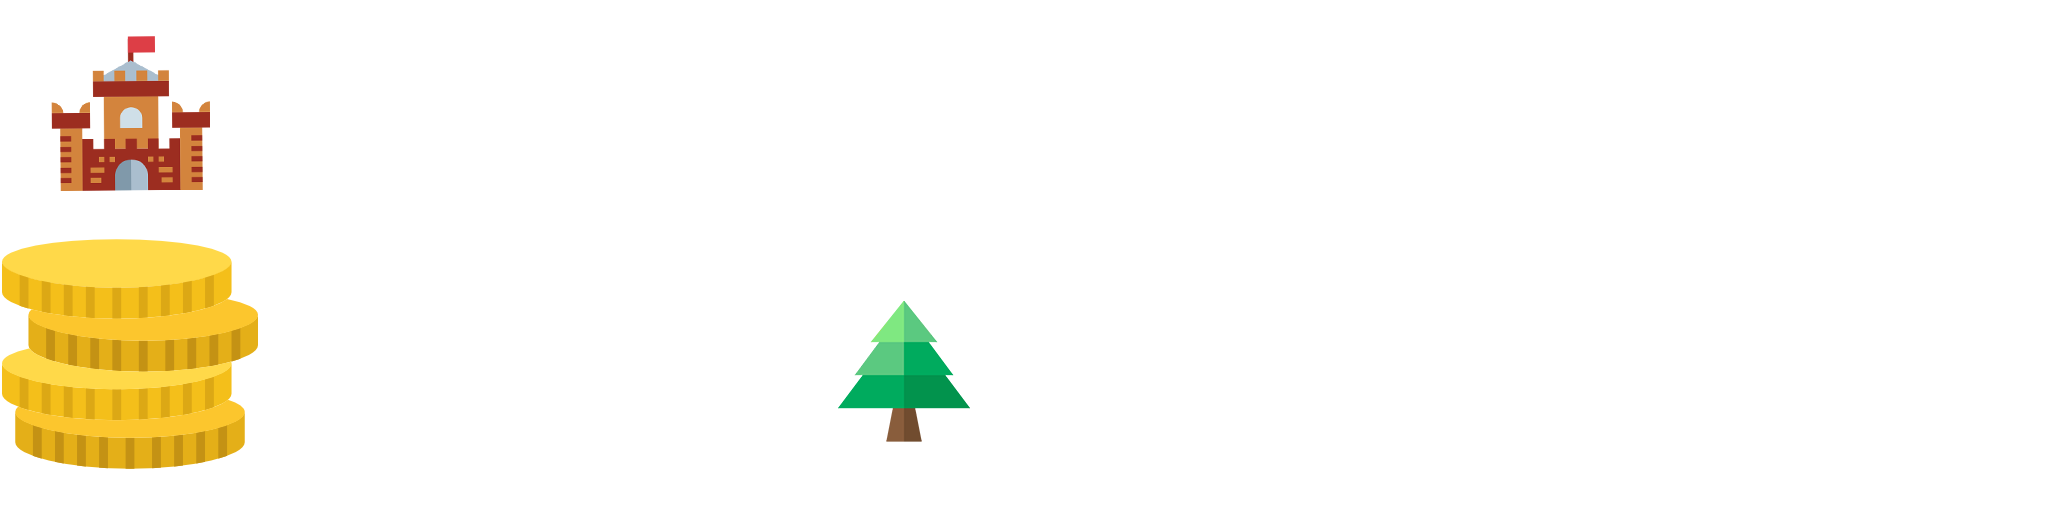
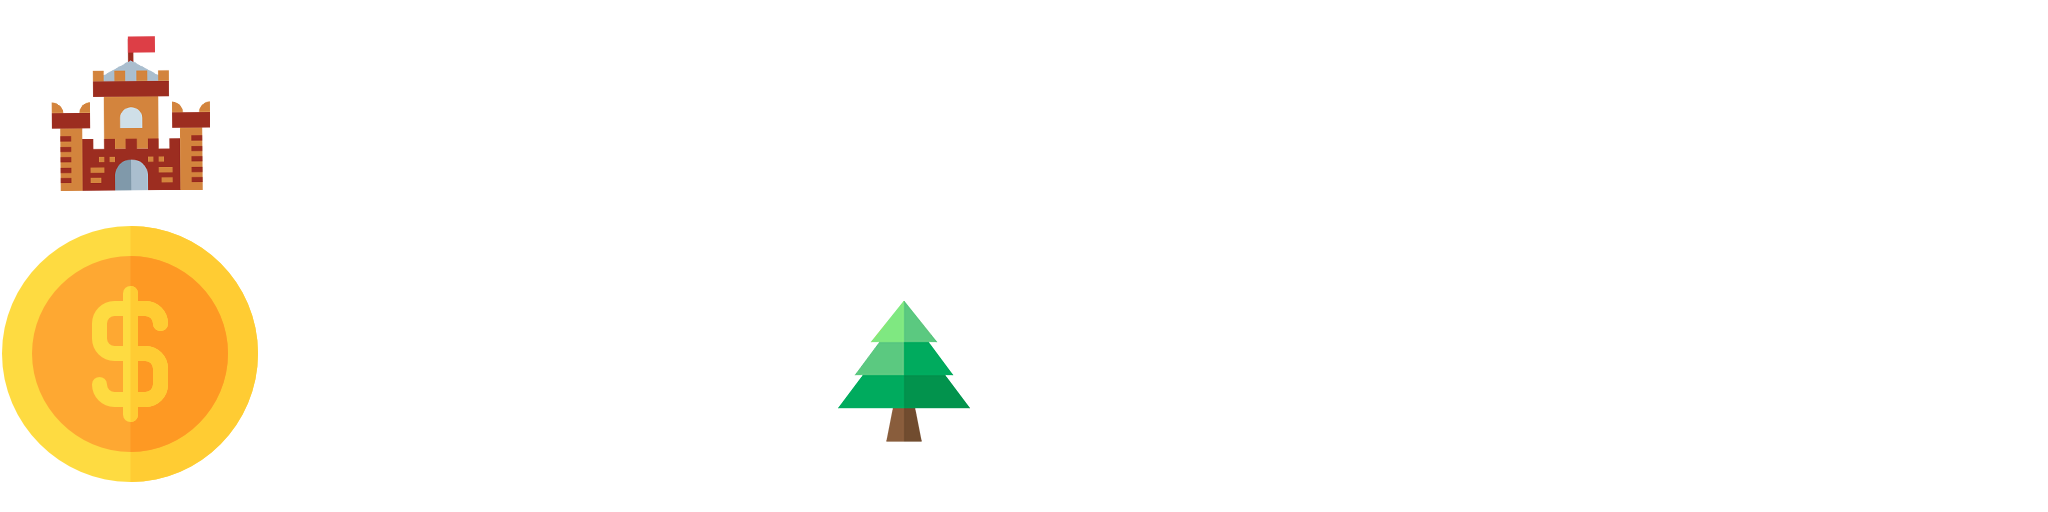
Add coinc visualisation and try to fix concurrent modification

Changed region(s): [[0.0, 0.4375, 0.125, 0.9375]]

diff --git a/core/src/gui/graphics/screens/InGameScreen.java b/core/src/gui/graphics/screens/InGameScreen.java
@@ -4,6 +4,7 @@ package gui.graphics.screens;
 import static gui.utils.Constants.N_TILES;
 
 import java.util.ArrayList;
+import java.util.List;
 import java.util.concurrent.LinkedBlockingQueue;
 
 import com.badlogic.gdx.Gdx;
@@ -54,7 +55,7 @@ public class InGameScreen extends BasicScreen implements InputProcessor {
     private TiledMapTileLayer selectedLayer;
     private Board board;
     private TextureAtlas itemsSkin;
-    private ArrayList<Cell> selectedCells = new ArrayList<>();
+    private List<Cell> selectedCells = new ArrayList<>();
     private FillViewport fillViewport;
     private Hud hud;
 
@@ -80,10 +81,26 @@ public class InGameScreen extends BasicScreen implements InputProcessor {
 
         hud = new Hud(this, itemsSkin);
         Hud.Shop shop = hud.getShop();
-        addListener(shop.soldierLvl1, new Soldier(SoldierLevel.level1));
-        addListener(shop.soldierLvl2, new Soldier(SoldierLevel.level2));
-        addListener(shop.soldierLvl3, new Soldier(SoldierLevel.level3));
-        addListener(shop.soldierLvl4, new Soldier(SoldierLevel.level4));
+        shop.soldierLvl1.addListener(new ClickListener() {
+            @Override
+            public void clicked(InputEvent event, float x, float y) {
+                messageSender.send(new ShopMessage(new Soldier(SoldierLevel.level1)));}
+        });
+        shop.soldierLvl2.addListener(new ClickListener() {
+            @Override
+            public void clicked(InputEvent event, float x, float y) {
+                messageSender.send(new ShopMessage(new Soldier(SoldierLevel.level2)));}
+        });
+        shop.soldierLvl3.addListener(new ClickListener() {
+            @Override
+            public void clicked(InputEvent event, float x, float y) {
+                messageSender.send(new ShopMessage(new Soldier(SoldierLevel.level3)));}
+        });
+        shop.soldierLvl4.addListener(new ClickListener() {
+            @Override
+            public void clicked(InputEvent event, float x, float y) {
+                messageSender.send(new ShopMessage(new Soldier(SoldierLevel.level4)));}
+        });
         InputMultiplexer multiplexer = new InputMultiplexer();
         multiplexer.addProcessor(hud);
         multiplexer.addProcessor(this);
@@ -170,14 +187,6 @@ public class InGameScreen extends BasicScreen implements InputProcessor {
         stage = new Stage(fillViewport);
     }
 
-    private void addListener(Actor actor, Item item) {
-        actor.addListener(new ClickListener() {
-            @Override
-            public void clicked(InputEvent event, float x, float y) {
-                messageSender.send(new ShopMessage(item));
-            }
-        });
-    }
 
     private Vector3 getMouseLoc() {
         mouseLoc.x = Gdx.input.getX();
@@ -285,9 +294,11 @@ public class InGameScreen extends BasicScreen implements InputProcessor {
                 	// Ne s'applique que si la case appartient au joueur
                 	// Ainsi il voit directement avec quelles cases il peut interagir
                     if(cell.getDistrict() != null && cell.getDistrict().getPlayer().getId() == board.getActivePlayer().getId()) {
+                        hud.getDistrictInfo().goldLabel.setText(cell.getDistrict().getGold());
                         cells.setOpacity(0.9f);
                         selectCells(cell.getDistrict().getCells());
                     } else {
+                        hud.getDistrictInfo().goldLabel.setText("");
                         cells.setOpacity(1f);
                         unselectCells();
                     }
@@ -315,7 +326,7 @@ public class InGameScreen extends BasicScreen implements InputProcessor {
     }
 
     //TODO Reformater le code pour ne faire plus qu'une seule méthode
-    private void selectCells(ArrayList<Cell> cellsArray) {
+    private void selectCells(List<Cell> cellsArray) {
         unselectCells();
         selectedCells = cellsArray;
         int numberPlayer;

diff --git a/core/src/logic/board/Board.java b/core/src/logic/board/Board.java
@@ -22,7 +22,7 @@ public class Board{
 	private Cell[][] board;
 	private int columns, rows, activePlayer;
 	private ArrayList<Player> players;
-	private ArrayList<District> districts;
+	private volatile ArrayList<District> districts;
 	private Shop shop;
 	private NaturalDisastersController naturalDisastersController;
 	private volatile Cell selectedCell, firstCell;
@@ -176,7 +176,7 @@ public class Board{
 	 * Permet de déplacer un item d'une cellule à l'autre
 	 * @param toCell la cellule de destination
 	 * */
-	public synchronized void move(Cell toCell) {
+	public void move(Cell toCell) {
 //		if(selectedCell != null && selectedCell.getItem() != null && selectedCell.getItem().getMode().isMovable() && selectedCell.getItem().canMove()) {
 		if(selectedCell.getItem().isMovable() && selectedCell.getItem().canMove()) {//Il faut vérifier que l'item de la cellule est déplaçable et qu'il peut encore être déplacé
 			if(isInPossibleMove(possibleMove(selectedCell), toCell)) {
@@ -280,12 +280,12 @@ public class Board{
 	 * @param cell la cellule où se trouve l'item
 	 * @return les cellules sur lesquelles peut se déplacer l'item
 	 * */
-	public synchronized ArrayList<Cell> possibleMove(Cell cell) {
+	public ArrayList<Cell> possibleMove(Cell cell) {
 		ArrayList<Cell> possible = new ArrayList<>();
 		ArrayList<Cell> around = getNeighbors(cell);
 		ArrayList<Cell> subAround = new ArrayList<>();
 		if(cell.getItem() != null && cell.getItem().isMovable() && cell.getItem().canMove()) {
-			for (int i = 0; i < cell.getItem().getMaxMove(); i++) {
+			for (int i = 0; i < cell.getItem().getMaxMove() - 1; i++) {
 				subAround.clear();
 				for (Cell c : around) {
 					if (c.getDistrict() == cell.getDistrict() && (c.getItem() == null
@@ -317,19 +317,22 @@ public class Board{
 	 * @param district le district d'où le soldat a été acheté
 	 * @return les cellules sur lesquelles peut être placé le nouvel item
 	 * */
-	public synchronized ArrayList<Cell> possibleMove(District district){
+	public ArrayList<Cell> possibleMove(District district){
 		ArrayList<Cell> possible = new ArrayList<>();
-		for(Cell c : district.getCells()) {
-			if(possible.indexOf(c) == -1) {
-				possible.add(c);
-			}
-			for(Cell c1 : getNeighbors(c)) {
-				if(canGoOn(c1, shop.getSelectedItem()) && possible.indexOf(c1) == -1) {
-					possible.add(c1);
+		synchronized (district.getCells()) {
+			for(Cell c : district.getCells()) {
+				if(possible.indexOf(c) == -1) {
+					possible.add(c);
+				}
+				for(Cell c1 : getNeighbors(c)) {
+					if(canGoOn(c1, shop.getSelectedItem()) && possible.indexOf(c1) == -1) {
+						possible.add(c1);
+					}
 				}
 			}
+			return possible;
+
 		}
-		return possible;
 	}
 	
 	/**
@@ -406,7 +409,7 @@ public class Board{
 		checkWinner();
 		selectedCell = null;
 		if(winner == null) {
-			memories.add(new ArrayList<Memory>());
+			memories.add(new ArrayList<>());
 			shop.removeSelection();
 			activePlayer = (activePlayer + 1)%(players.size());
 			generateTree();
@@ -629,6 +632,7 @@ public class Board{
 		ArrayList<Cell> visited = new ArrayList<>();
 		Random rand = new Random();
 		//On récupère une cellule du district aléatoirement
+		System.out.println(district);
 		int i = rand.nextInt(district.getCells().size());
 		while(district.getCells().get(i).getItem() != null && visited.size() < district.getCells().size()) {
 			visited.add(district.getCells().get(i));
@@ -705,7 +709,7 @@ public class Board{
 	 * Permet de jouer un tour
 	 * @param cell la cellule sur laquelle une action est susceptible d'être effectuée
 	 * */
-	public synchronized void play(Cell cell) {
+	public void play(Cell cell) {
 		if(selectedCell != null) {
 			if(shop.getSelectedItem() != null) {
 				placeNewItem(cell);

diff --git a/core/src/gui/Hud.java b/core/src/gui/Hud.java
@@ -4,11 +4,9 @@ import com.badlogic.gdx.Gdx;
 import com.badlogic.gdx.graphics.g2d.Sprite;
 import com.badlogic.gdx.graphics.g2d.TextureAtlas;
 import com.badlogic.gdx.scenes.scene2d.Stage;
-import com.badlogic.gdx.scenes.scene2d.ui.Image;
-import com.badlogic.gdx.scenes.scene2d.ui.ScrollPane;
-import com.badlogic.gdx.scenes.scene2d.ui.Skin;
-import com.badlogic.gdx.scenes.scene2d.ui.Table;
+import com.badlogic.gdx.scenes.scene2d.ui.*;
 import com.badlogic.gdx.utils.Align;
+import com.badlogic.gdx.utils.Scaling;
 import gui.graphics.screens.BasicScreen;
 import gui.utils.Constants;
 
@@ -16,6 +14,7 @@ import gui.utils.Constants;
  * Classe représentant l'HUD in game qui contient notamment le shop ainsi que le nom du joueur actif.
  */
 public class Hud extends Stage {
+    private final DistrictInfo districtInfo;
     protected BasicScreen parent;
     protected Skin uiSkin;
     protected TextureAtlas itemSkin;
@@ -27,13 +26,17 @@ public class Hud extends Stage {
         this.uiSkin = parent.getUiSkin();
         this.itemSkin = itemSkin;
         shop = new Shop();
-        DistrictGold districtGold = new DistrictGold();
-        districtGold.addActorsToStage(this);
+        districtInfo = new DistrictInfo();
+        districtInfo.addActorsToStage(this);
         shop.addActorsToStage(this);
     }
 
     public Shop getShop() {
         return shop;
+    }
+
+    public DistrictInfo getDistrictInfo() {
+        return districtInfo;
     }
 
     /**
@@ -67,7 +70,8 @@ public class Hud extends Stage {
             scrollTable.row();
             scrollTable.add(soldierLvl4).maxHeight(height/4);
             //TODO COMMENT
-            ScrollPane scroller = new ScrollPane(scrollTable);
+            ScrollPane scroller;
+            scroller = new ScrollPane(scrollTable);
             scroller.setScrollingDisabled(true, false);
             table = new Table(uiSkin);
             table.setBackground("shop-background");
@@ -82,19 +86,34 @@ public class Hud extends Stage {
         }
     }
 
-    public class DistrictGold {
+    public class DistrictInfo {
 
-        private final Image gold;
+        private final float width, height;
+        private final Table table;
+        public Label goldLabel;
 
-        public DistrictGold() {
-            gold = new Image(itemSkin.createSprite("Coins"));
-            gold.setScale(0.25f);
+        public DistrictInfo() {
+            //Définition de la taille du shop
+            Image background = new Image(uiSkin.getDrawable("info-background"));
+            width = background.getWidth() * Constants.getRatioX(Gdx.graphics.getWidth());
+            height = background.getHeight() * Constants.getRatioY(Gdx.graphics.getHeight());
+            Image gold = new Image(itemSkin.createSprite("Coin"));
+            Label.LabelStyle labelStyle = uiSkin.get(Label.LabelStyle.class);
+            labelStyle.font = parent.getTextFont();
+
+            goldLabel = new Label("", labelStyle);
+            gold.setScaling(Scaling.fit);
+            //TODO COMMENT
+            table = new Table(uiSkin);
+            table.setSize(width, height);
+            table.setBackground("info-background");
+            table.add(goldLabel).expandX().pad(10).align(Align.right);
+            table.add(gold).maxWidth(50).align(Align.right).pad(10);
         }
 
         public void addActorsToStage(Hud hud) {
-            gold.setPosition(hud.getWidth() / 2, hud.getHeight() - gold.getHeight()*gold.getScaleY());
-            gold.setDebug(true);
-            hud.addActor(gold);
+            table.setPosition(hud.getWidth() - width, 0);
+            hud.addActor(table);
         }
     }
 }

diff --git a/core/src/logic/board/District.java b/core/src/logic/board/District.java
@@ -1,6 +1,9 @@
 package logic.board;
 
+import java.lang.reflect.Array;
 import java.util.ArrayList;
+import java.util.Collections;
+import java.util.List;
 
 import logic.board.cell.Cell;
 import logic.item.Capital;
@@ -14,13 +17,13 @@ public class District {
 	private Player player;
 	private int gold;
 	private transient Cell capital;
-	private ArrayList<Cell> cells;
+	private volatile List<Cell> cells;
 
 	public static int globalId = 0;
 	private int id;
 	
 	public District(Player player) {
-		cells = new ArrayList<>();
+		cells = Collections.synchronizedList(new ArrayList<>());
 		this.player = player;
 
 		globalId++;
@@ -93,7 +96,7 @@ public class District {
 		}
 	}
 	
-	public ArrayList<Cell> getCells() {
+	public List<Cell> getCells() {
 		return this.cells;
 	}
 

diff --git a/core/src/logic/board/cell/Cell.java b/core/src/logic/board/cell/Cell.java
@@ -5,7 +5,7 @@ import logic.item.Item;
 
 public class Cell {
 	private int x,y;
-	private Item item; // si null alors il n'y a pas d'item actuellement sur la cellule
+	private volatile Item item; // si null alors il n'y a pas d'item actuellement sur la cellule
 	private transient District district; // si null alors n'appartient actuellement à aucun district
 
 //	private int numberOfAdjacentWaterCell; //?
